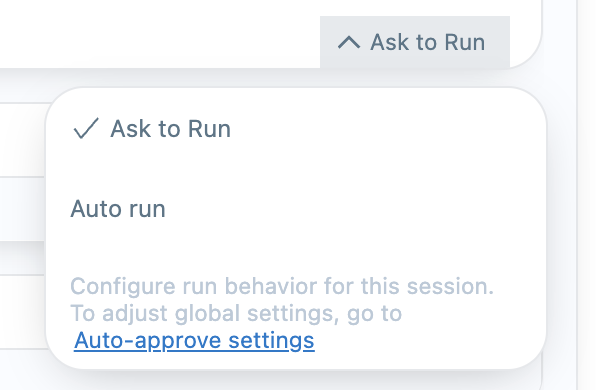
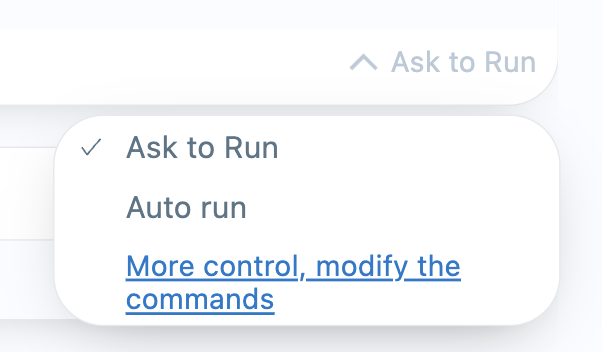
fix: update button to be secondary instead of primary button, update images in docs

diff --git a/src/components/dropdown-form/base-dropdown.ts b/src/components/dropdown-form/base-dropdown.ts
@@ -95,7 +95,7 @@ export abstract class BaseDropdown<T = any> {
       icon: this.dropdownIcon,
       onClick: this.toggleDropdown,
       primary: false,
-      status: 'clear',
+      status: 'dimmed-clear',
       classNames: [ 'mynah-dropdown-list-button' ],
       testId: testIds.dropdownList.button
     }).render;
